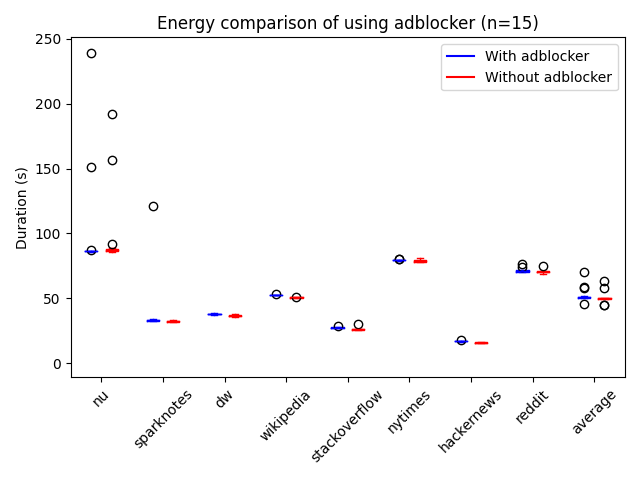
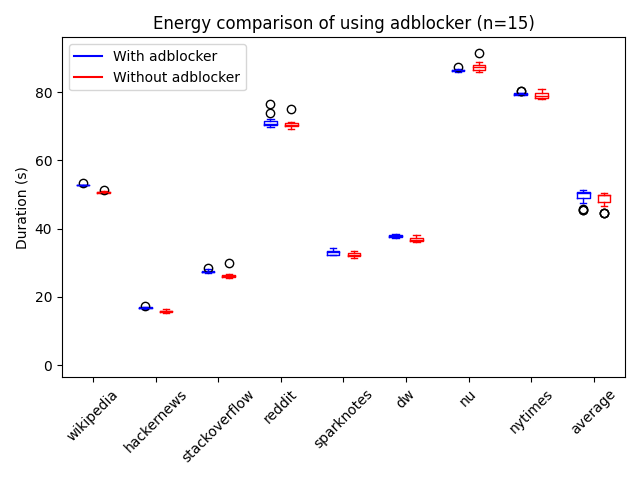
Update data and add some extra images

diff --git a/project1/visualization.py b/project1/visualization.py
@@ -18,7 +18,7 @@ UNIT_OF_METRICS = {
 GENERATE_FOR_EVERY_SITE = False
 
 def main():
-    sites = [key for key in get_sites().keys()]
+    sites = ["wikipedia", "hackernews", "stackoverflow", "reddit", "sparknotes", "dw", "nu", "nytimes"]
 
     parser = ArgumentParser(description='Run selenium tests with or without uBlock Origin')
     parser.add_argument('--date',type=int, default=1646053732, help="Which amount of seconds is used as date in results folders")
@@ -37,7 +37,10 @@ def read_result(site, date, i, adblocker_used):
         while line != "":
             usage = read_usage(line)
             if usage is not None:
-                results.append(usage)
+                if usage[2] > 100000000:
+                    print("Removed a duration outlier")
+                else:
+                    results.append(usage)
             line = file.readline()
     if results != []:
         return np.average(results, axis=0)
@@ -150,14 +153,15 @@ def generate_large_boxplot(data, sites, n, metric):
     # plt.show()
 
 def print_table(data, sites, n, metric):
-    table_string = f"| Website | Average {metric} with adblocker ({UNIT_OF_METRICS[metric]}) | Average {metric} without adblocker ({UNIT_OF_METRICS[metric]})| Change |\n| --- | --- | --- | --- |"
+    table_string = f"| Website | Average {metric} with adblocker ({UNIT_OF_METRICS[metric]}) | Average {metric} without adblocker ({UNIT_OF_METRICS[metric]})| Change of {metric} from adblocker |\n| --- | --- | --- | --- |"
 
     for site in sites:
         extracted = extract_metric_of_site(data, site, metric)
         with_adblocker = np.average(extracted[0])
         without_adblocker = np.average(extracted[1])
-        percentual_change = round(float(with_adblocker - without_adblocker) / float(without_adblocker) * 100.0, 2)
-        table_string += f"\n| {site.capitalize()} | {sigfig.round(with_adblocker, sigfigs=4)} | {sigfig.round(without_adblocker, sigfigs=4)} | {percentual_change}% |"
+        absolute_change = sigfig.round(with_adblocker - without_adblocker, sigfigs=4)
+        percentual_change = round(float(with_adblocker - without_adblocker) / float(without_adblocker) * 100.0, 1)
+        table_string += f"\n| {site.capitalize()} | {sigfig.round(with_adblocker, sigfigs=4)} | {sigfig.round(without_adblocker, sigfigs=4)} | {absolute_change} ({percentual_change}%) |"
 
     print(table_string)
 

diff --git a/project1/blogpost.md b/project1/blogpost.md
@@ -1,4 +1,5 @@
 # Hier kan uw advertentie staan
+
 <!--- 
 Introduction:
 Billion dollar industry
@@ -7,19 +8,35 @@ Not only important for mobile websites (more screen real estate, more possibilit
 reference to papers
 --->
 
-Showing advertisements is one of the key ways to earn money on the internet. Whether it is through banner ads¸ sponsored messages or paid endorsements, advertising is everywhere. The online advertising industry is one of the fastest growing industries. In the Netherlands alone, [it grew by more than 100% in 8 year](https://www.statista.com/statistics/542808/net-online-advertising-market-revenue-in-the-netherlands-by-channel/). But what footprint does this industry leave behind? Large advertising companies like [Google](https://sustainability.google/commitments/carbon/#) and [Meta](https://sustainability.fb.com/climate/) have great ambitions of reaching net-zero emissions. However, their goals only apply to their own corporate emissions, such as the energy usage of their datacenters or offices.
+Showing advertisements is one of the key ways to earn money on the internet. Whether it is through banner ads¸ sponsored
+messages or paid endorsements, advertising is everywhere. The online advertising industry is one of the fastest growing
+industries. In the Netherlands
+alone, [it grew by more than 100% in 8 year](https://www.statista.com/statistics/542808/net-online-advertising-market-revenue-in-the-netherlands-by-channel/)
+. But what footprint does this industry leave behind? Large advertising companies
+like [Google](https://sustainability.google/commitments/carbon/#) and [Meta](https://sustainability.fb.com/climate/)
+have great ambitions of reaching net-zero emissions. However, their goals only apply to their own corporate emissions,
+such as the energy usage of their datacenters or offices.
 
-Given the fact that the services of advertising companies are consuming energy both the server *and* the client side, the effect of advertising on the energy consumption of clients should not be forgotten. As more and more money is spent on digital advertising, this becomes increasingly more important.
+Given the fact that the services of advertising companies are consuming energy both the server *and* the client side,
+the effect of advertising on the energy consumption of clients should not be forgotten. As more and more money is spent
+on digital advertising, this becomes increasingly more important.
 
-<<TODO: image of ad market increase\>>
+![Digital advertising](img/digital-advertising-spending-worldwide.png)
 
-Users are becoming more ad aware, and there are many different tools for reducing the amount of advertising you see when browsing. As you can see in the image below, adblock usage is becoming more popular. Already 763 million people use adblockers worldwide. This shows annoyment towards online advertising, and makes it more difficult for websites to be profitable. However, the sustainability impact of trying to block advertisements and trackers is most often not part of people's consideration. Does this blocking increase your browser's energy consumption to find the ads? Or is it actually saving your battery by reducing the amount of images that have to be downloaded?
+Users are becoming more ad aware, and there are many different tools for reducing the amount of advertising you see when
+browsing. As you can see in the image below, adblock usage is becoming more popular. Already 763 million people use
+adblockers worldwide. This shows annoyment towards online advertising, and makes it more difficult for websites to be
+profitable. However, the sustainability impact of trying to block advertisements and trackers is most often not part of
+people's consideration. Does this blocking increase your browser's energy consumption to find the ads? Or is it actually
+saving your battery by reducing the amount of images that have to be downloaded?
 
-<<TODO: image of adblock usage\>>
+![Adblocker usage](img/adblocking.png)
 
-This will be the goal of our experiment. We will measure the effect that advertisements and adblockers have on the additional energy usage of of our own devices. In [previous work](https://dl.acm.org/doi/10.1145/3372799.3394372) there have already been efforts to determine the power consumption of smart phones. However with the relatively more screen real-estate to fill, advertisements  can take up more space on the screens on full-size screens of desktops and laptop computers.
-
-![XKCD](https://imgs.xkcd.com/comics/branding.png)
+This will be the goal of our experiment. We will measure the effect that advertisements and adblockers have on the
+additional energy usage of of our own devices. In [previous work](https://dl.acm.org/doi/10.1145/3372799.3394372) there
+have already been efforts to determine the power consumption of smart phones. However with the relatively more screen
+real-estate to fill, advertisements can take up more space on the screens on full-size screens of desktops and laptop
+computers.
 
 <!--- 
 Setup:
@@ -29,11 +46,21 @@ Time between tests
 Repetitions
 --->
 
-Blocking advertisements on computers can be done by using an ad blocker.  like the free and open-source ad blocker [uBlock Origin](https://github.com/gorhill/uBlock/). We wrote automated tests for [Selenium](https://www.selenium.dev/) to make experiment as replicable as possible. The tests were run with Selenium with [geckodriver](https://github.com/mozilla/geckodriver).
+Blocking advertisements on computers can be done by using an ad blocker. like the free and open-source ad
+blocker [uBlock Origin](https://github.com/gorhill/uBlock/). We wrote automated tests
+for [Selenium](https://www.selenium.dev/) to make experiment as replicable as possible. The tests were run with Selenium
+with [geckodriver](https://github.com/mozilla/geckodriver).
 
-The testsuite was executed on the same set of sites, with the only difference being whether uBlock Origin was installed. Due to the previous research In combination with the use of selenium, we were able to automate the visit of different websites, such that the experiments could be repeated 15 times. With the [jouleit](https://github.com/powerapi-ng/jouleit) script from powerapi, the power consumptions during these website visits was measured. Now we just need to find some interesting websites to measure the power consumption of. We came up with the following list of websites, ranging from no advertisements at all to a lot of ads on a single page. 
+The testsuite was executed on the same set of sites, with the only difference being whether uBlock Origin was installed.
+Due to the previous research In combination with the use of selenium, we were able to automate the visit of different
+websites, such that the experiments could be repeated 15 times. With
+the [jouleit](https://github.com/powerapi-ng/jouleit) script from powerapi, the power consumptions during these website
+visits was measured. Now we just need to find some interesting websites to measure the power consumption of. We came up
+with the following list of websites, ranging from no advertisements at all to a lot of ads on a single page.
 
-We judged the ad intensity ourselves to place the websites in 4 categories, as you can see in the table below. They link to the exact page we used, so you can also have a look for yourself! We also list here, how many requests the adblocker is blocking, which also takes into account requests that are less visible.
+We judged the ad intensity ourselves to place the websites in 4 categories, as you can see in the table below. They link
+to the exact page we used, so you can also have a look for yourself! We also list here, how many requests the adblocker
+is blocking, which also takes into account requests that are less visible.
 
 | Website | Ad intensity | # of requests |
 | --- | --- | --- |
@@ -46,13 +73,31 @@ We judged the ad intensity ourselves to place the websites in 4 categories, as y
 | [nu.nl](https://nu.nl) | High | 12 (7%) |
 | [New York Times](https://nytimes.com) | High | 15 (10%) |
 
-We decided to not preheat the system as normally is done in such tests, since the preheating is not done in regular use of the webbrowser either. A user normally loads website one by one, therefore the CPU would not be pre-heated in a regular scenario. In order to prevent as much deviation between tests as possible we opted to use a wired connection to the internet and disable bluetooth as well. No other programs were running during execution. In the figure below, it can be seen that this resulted in quite consistent durations for the experiment. Only XX out of XX experiments did not finish successfully, we removed these from the data.
+We decided to not preheat the system as normally is done in such tests, since the preheating is not done in regular use
+of the webbrowser either. A user normally loads website one by one, therefore the CPU would not be pre-heated in a
+regular scenario. In order to prevent as much deviation between tests as possible we opted to use a wired connection to
+the internet and disable bluetooth as well. No other programs were running during execution. In the figure below, it can
+be seen that this resulted in quite consistent results for the experiment. Only 2 out of 240 experiments did not finish
+successfully, we removed these from the data. We also chose to remove the outliers where execution time was above 100
+seconds for the further results. These runs most likely had some connectivity issues that would impact the energy
+consumption. 
 
-Total power consumption consists of two parts, the energy consumed during the visit and the time spent. Below you will find a box plot of the time spent in watching the webpage. The time spent on every website is not equal since some websites are longer compared to others. We decided to take the actual use case in consideration and to differ the amount of time spent reading each website over an equal time. This should not skew the results, since we will compare the ad-free websites relative to their ad-full variant.
+Total power consumption consists of two parts, the energy consumed during the visit and the time spent. Below you will
+find a box plot of the time spent in watching the webpage. The time spent on every website is not equal since some
+websites are longer compared to others. We decided to take the actual use case in consideration and to differ the amount
+of time spent reading each website over an equal time. This should not skew the results, since we will compare the
+ad-free websites relative to their ad-full variant.
 
-![<<Smaller boxplot showing durations\>>](img/boxplot-complete-duration.png)
+![<<Smaller boxplot showing durations\>>](img/boxplot-complete-duration-with-duration-outliers.png)
 
-In every test, we reloaded the website 3 times. Selenium was used to scroll from top to bottom each time, in order to load all page content and ads. We repeated this for 15 iterations with and 15 iterations without adblocker for every website. The execution order of the tests was randomly shuffled to reduce external effects. We only used Firefox as a browser, but created the skeleton for easy future experiments with other browsers. We disabled all built-in blocking features that Firefox offers, to only have the effects of the adblocker.
+
+In every test, we started the browser without any cache. Selenium was used to scroll from top to bottom each time, in
+order to load all page content and ads. We repeated this for 15 iterations with and 15 iterations without adblocker for
+every website. The execution order of the tests was randomly shuffled to reduce external effects. We only used Firefox
+as a browser, but created the skeleton for easy future experiments with other browsers. We disabled all built-in
+blocking features that Firefox offers, to only have the effects of the adblocker.
+
+
 
 <!--- 
 Results & Graph(s):
@@ -61,30 +106,38 @@ Show stanadard deviation
 
 --->
 
-The results can be seen in the table. It can be clearly seen that when scrolling on a page without any ads (Wikipedia and Hackernews), using an adblocker consumes more energy. This energy consumption can be explained by the fact that the adblocker still has to go through the page to see if there are any ads. The same can be see in a milder version for the webpages with only a few ads. The extra energy consumption is here partly compensated by the reduced cost from not having to load the images and animations in the ad. When visiting websites with higher ad intensity, this saved effort is actually so much, that quite a lot of energy can be saved by turning on an adblocker.
+The results can be seen in the table below. It can be clearly seen that when scrolling on a page without any ads (Wikipedia
+and Hackernews), using an adblocker consumes more energy. This energy consumption can be explained by the fact that the
+adblocker still has to go through the page to see if there are any ads. The same can be see in a milder version for the
+webpages with only a few ads. The extra energy consumption is here partly compensated by the reduced cost from not
+having to load the images and animations in the ad. When visiting websites with higher ad intensity, this saved effort
+is actually so much, that quite a lot of energy can be saved by turning on an adblocker.
 
-
-<<TODO: replace table with new data, maybe add effect size>> 
-
-| Website | Average power usage with adblocker (W) | Average power usage without adblocker (W)| Change |
+| Website | Average power of cpu with adblocker (W) | Average power of cpu without adblocker (W)| Change of power of cpu from adblocker |
 | --- | --- | --- | --- |
-| Wikipedia | 0.1773 | 0.1433 | 23.71% | |
-| Hackernews | 0.4221 | 0.3462 | 21.91% | |
-| Stackoverflow | 0.283 | 0.2598 | 8.95% |
-| Reddit | 0.3367 | 0.3111 | 8.22% |
-| Sparknotes | 0.2518 | 0.4466 | -43.62% |
-| Deutsche Welle | 0.2509 | 0.2604 | -3.66% |
-| Nu | 0.151 | 0.4206 | -64.09% |
-| NYtimes | 0.2366 | 0.2751 | -13.98% |
-| Mean | 0.2395 | 0.3097 | -22.67% |
+| Wikipedia | 3.54 | 3.256 | 0.2837 (8.7%) |
+| Hackernews | 5.176 | 4.618 | 0.5579 (12.1%) |
+| Stackoverflow | 4.295 | 4.384 | -0.08828 (-2.0%) |
+| Reddit | 5.011 | 4.841 | 0.1707 (3.5%) |
+| Sparknotes | 4.508 | 5.628 | -1.12 (-19.9%) |
+| Dw | 4.117 | 4.442 | -0.3247 (-7.3%) |
+| Nu | 3.523 | 6.091 | -2.568 (-42.2%) |
+| Nytimes | 4.116 | 4.637 | -0.5212 (-11.2%) |
+| Mean | 4.226 | 4.785 | -0.5591 (-11.7%) |
 
-In the figure below, it can be seen that power consumption was not completely stable over iterations. The red boxplots show the distribution of the results without adblocker, the blue boxplot with uBlock activated. The websites on the left of the plot have less ads, more to the right means more ads. In general, it was expected that power is not very stable, but the distributions seem to show that the effect of the adblocker is definitely visible.
+In the figure below, it can be seen that power consumption was not completely stable over iterations. The red boxplots
+show the distribution of the results without adblocker, the blue boxplot with uBlock activated. The websites on the left
+of the plot have less ads, more to the right means more ads. In general, it was expected that power is not very stable,
+but the distributions seem to show that the effect of the adblocker is definitely visible.
 
 
 <!--- Image of with and without ads (boxplot and/or violin plot) --->
 ![<<Large boxplot comparing adblocker to no adblocker\>>](img/boxplot-complete-power-of-cpu.png)
 
-Due to the small sample size of websites we are unable to say something about the entire surfing behaviour of users. Especially because of the distributed nature of the internet. If one would like to determine the entire amount of energy saved the shown ads also play a role. If a lot of animated ads are shown at the moment, it might be more effective to use an ad blocker compared to a moment when only static ads are shown.
+Due to the small sample size of websites we are unable to say something about the entire surfing behaviour of users.
+Especially because of the distributed nature of the internet. If one would like to determine the entire amount of energy
+saved the shown ads also play a role. If a lot of animated ads are shown at the moment, it might be more effective to
+use an ad blocker compared to a moment when only static ads are shown.
 
 <!--- 
 Discussion:
@@ -94,21 +147,52 @@ What is the impact on society?
 How can the current situtation be changed
 --->
 
-First of all, from the perspective of a web user, it can be seen that your adblocker has significant impact on the amount of power you use while browsing. Especially if you are often on pages with a lot of ads, it could be beneficial from both a sustainability and a battery life standpoint to use an adblocker. We only used the uBlock adblocker, so more research can be done to compare different adblockers, but we believe this is probably also the case when using a different program. 
+What can we conclude from this experiment? First of all, from the perspective of a web user, it can be seen that your
+adblocker has significant impact on the amount of power you use while browsing. Especially if you are often on pages
+with a lot of ads, it could be beneficial from both a sustainability and a battery life standpoint to use an adblocker.
+On average over these websites, it already saves about half a Watt of power consumption. We only used the uBlock
+adblocker, so more research can be done to compare different adblockers, but we believe this is probably also the case
+when using a different program.
 
-As an example, we made the calculation for one of the high ad intensive websites from our experiment. The Dutch newspage 'nu.nl', which shows 2 banners, one static ad and an advertisement that scrolls along. This page reports having around 800 million page loads per month (see [here](https://www.dpgmedia.nl/merken/nu) . Our experiment shows an average energy saving of XX J for every load, this means that every year, XX * 800 million * 12 = XX GJ a year could be saved every year if everyone were to use an adblocker just for this one website. This is equivalent to what XX average households use per year, and this is only for this one website.
+As an example, we made the calculation for one of the high ad intensive websites from our experiment. The Dutch
+newspage 'nu.nl', which shows 2 banners, one static ad and an advertisement that scrolls along. This page reports having
+around [800 million page loads per month](https://www.dpgmedia.nl/merken/nu) . Our experiment shows an average
+energy saving of 228 J for every load, this means that 228 * 800 million * 12 = 2188.8 Gj could be saved every year if
+everyone were to use an adblocker just for this one website. This is equivalent to driving a Tesla 3 for 3850
+kilometers.
 
-Our experiment also shows that there is still a lot to gain in the efficiency of the adblocker. If it would be able to recognize when there are no ads, it would not cost as much extra when browsing on these pages. There may be many more and less complicated ways to achieve more efficient ad recognizing. For example, we believe this could potentially be achieved by whitelisting well-known ad-free websites. This can already be done manually and it could be a nice future experiment to see, whether users can save energy by maintaining this themselves.
+Our experiment also shows that there is still a lot to gain in the efficiency of the adblocker. If it would be able to
+recognize when there are no ads, it would not cost as much extra when browsing on these pages. There may be many more
+and less complicated ways to achieve more efficient ad recognizing. For example, we believe this could potentially be
+achieved by whitelisting well-known ad-free websites. This can already be done manually and it could be a nice future
+experiment to see, whether users can save energy by maintaining this themselves.
 
-Another simple possibility would be to maybe keep more caches, to prevent having to redo this every page. However, it should be noted that for this experiment, we restarted the browser every time. This might also have negatively impacted the adblocker efficiency, as it might use more during start up.
+Another simple possibility would be to maybe keep more caches, to prevent having to redo this every page. However, it
+should be noted that for this experiment, we restarted the browser every time. This might also have negatively impacted
+the adblocker efficiency, as it might use more during start up.
 
-For websites, it is of course difficult to earn their money without ads. It is however possible to take into consideration how much energy this consumes. Maybe looking into smaller or less animated ads could save the user some energy, and motivate the user not to activate a blocker. Or to provide the option for adblocking users to request ad-free or ad-light pages directly instead. This would of course be more efficient than the current way of requesting the full page and then blocking parts.
+For websites, it is of course difficult to earn their money without ads. It is however possible to take into
+consideration how much energy this consumes. Maybe looking into smaller or less animated ads could save the user some
+energy, and motivate the user not to activate a blocker. Or to provide the option for adblocking users to request
+ad-free or ad-light pages directly instead. This would of course be more efficient than the current way of requesting
+the full page and then blocking parts.
 
-In general, 'more ads equals more energy consumption' seems a valid conclusion from our results. However, this is not completely consistent. The Sparknotes ads seem to use a lot more extra energy in comparison to Deutsche Welle, while they have a similar intensity. We did not look into enough webpages to be certain what makes ads more or less energy consuming. However, our first intuition is that it has to do with the size of the webpage as well. A large web page, with an advertisement that is only loaded once, but shows it continuously might be more efficient than loading ads on a small page that is only visited for a short duration.
+In general, 'more ads equals more energy consumption' seems a valid conclusion from our results. However, this is not
+completely consistent. The Sparknotes ads seem to use a lot more extra energy in comparison to Deutsche Welle, while
+they have a similar intensity. We did not look into enough webpages to be certain what makes ads more or less energy
+consuming. However, our first intuition is that it has to do with the size of the webpage as well. A large web page,
+with an advertisement that is only loaded once, but shows it continuously might be more efficient than loading ads on a
+small page that is only visited for a short duration.
 
-These are some of the many possible more detailed comparison that could be made to interpret these results even more. What is the effect of ad size, the movement of ads, ad provider? But also, what is the effect of using a smaller or larger screen or activating Firefox' trackers blocking?
+These are some of the many possible more detailed comparison that could be made to interpret these results even more.
+What is the effect of ad size, the movement of ads, ad provider? But also, what is the effect of using a smaller or
+larger screen or activating Firefox' trackers blocking?
 
-In our opinion, the real, long-term solution would however be to make wider changes to the system. If it would be possible to pay a small monthly fee, which is spread over all webpages you visit, we could save energy and frustration from advertisements, while keeping the companies providing us with news and information with income. We understand this would be a complicated and long process to change, but maybe this small experiment can provide a little extra motivation!
+In our opinion, the real, long-term solution would however be to make wider changes to the system. If it would be
+possible to pay a small monthly fee, which is spread over all webpages you visit, we could save energy and frustration
+from advertisements, while keeping the companies providing us with news and information with income. We understand this
+would be a complicated and long process to change, but maybe this small experiment can provide a little extra
+motivation!
 
 <!---
 Conclusion:
